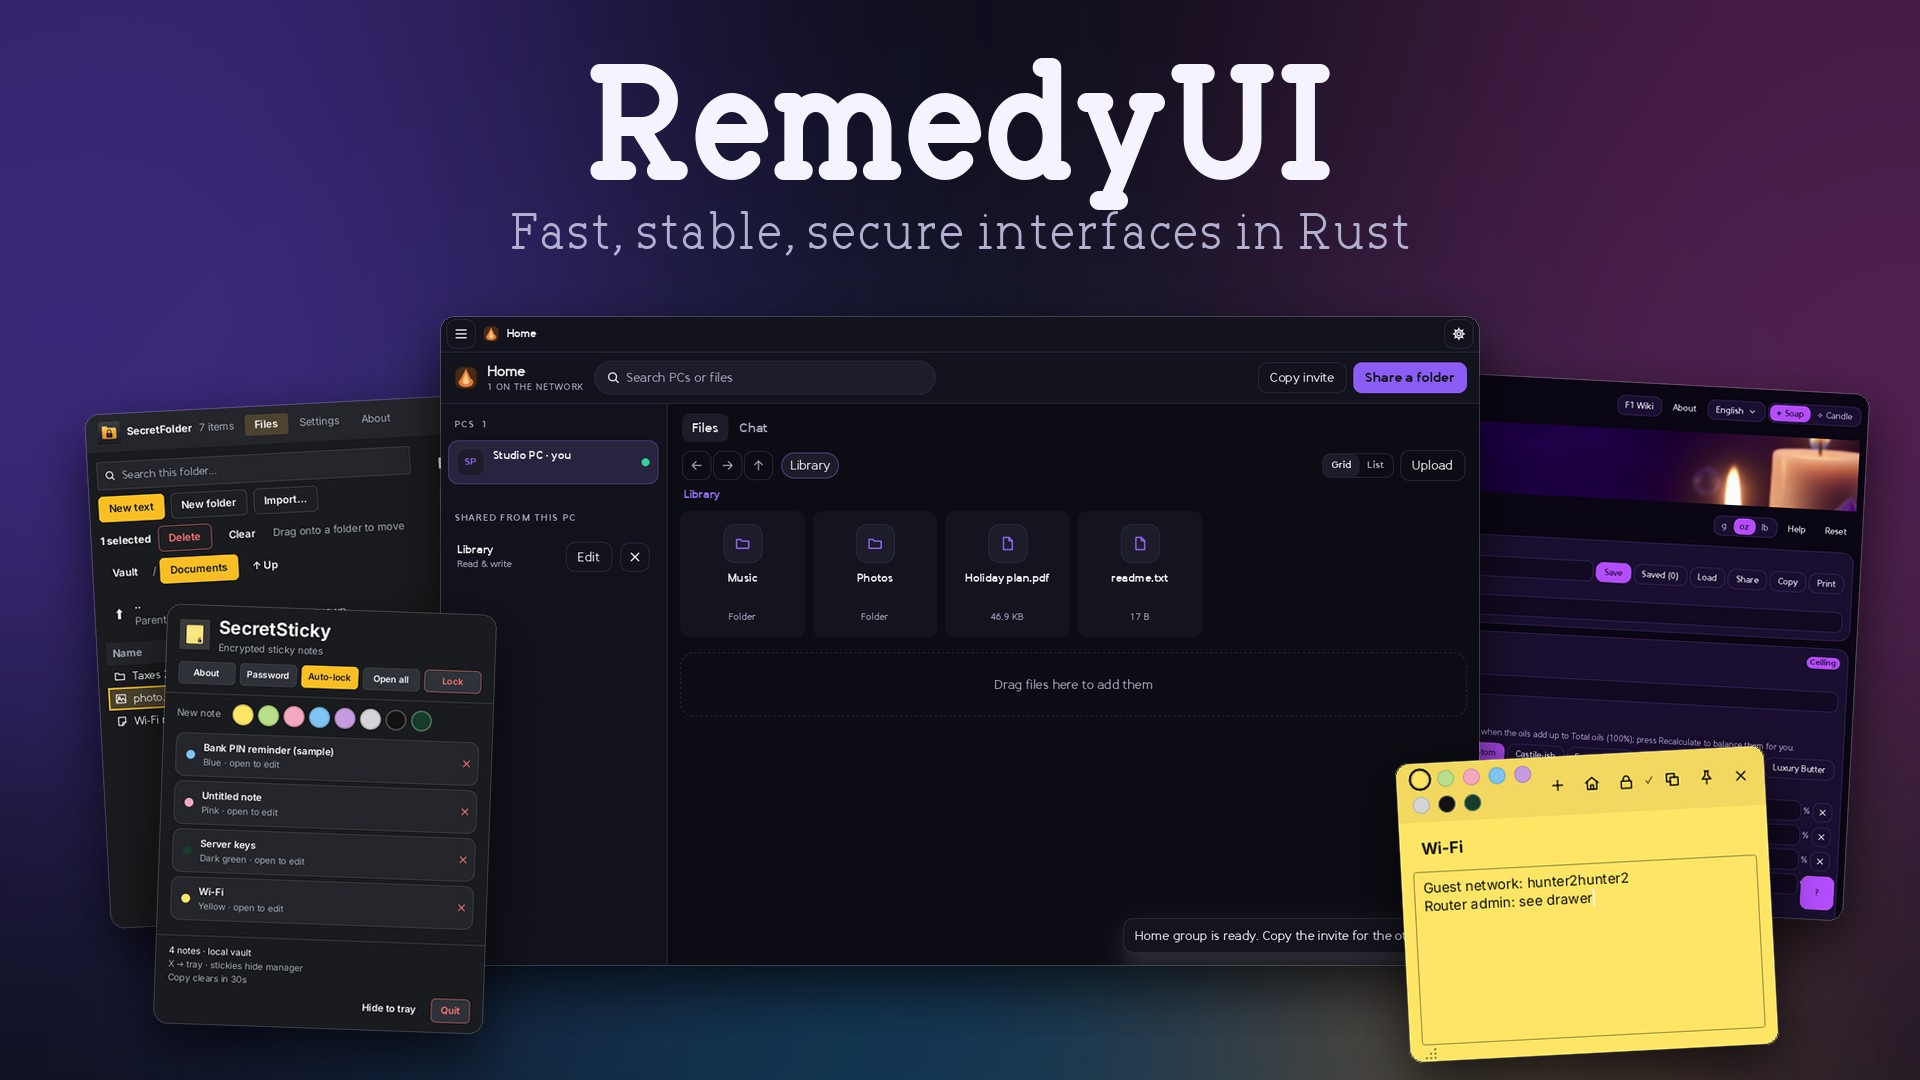
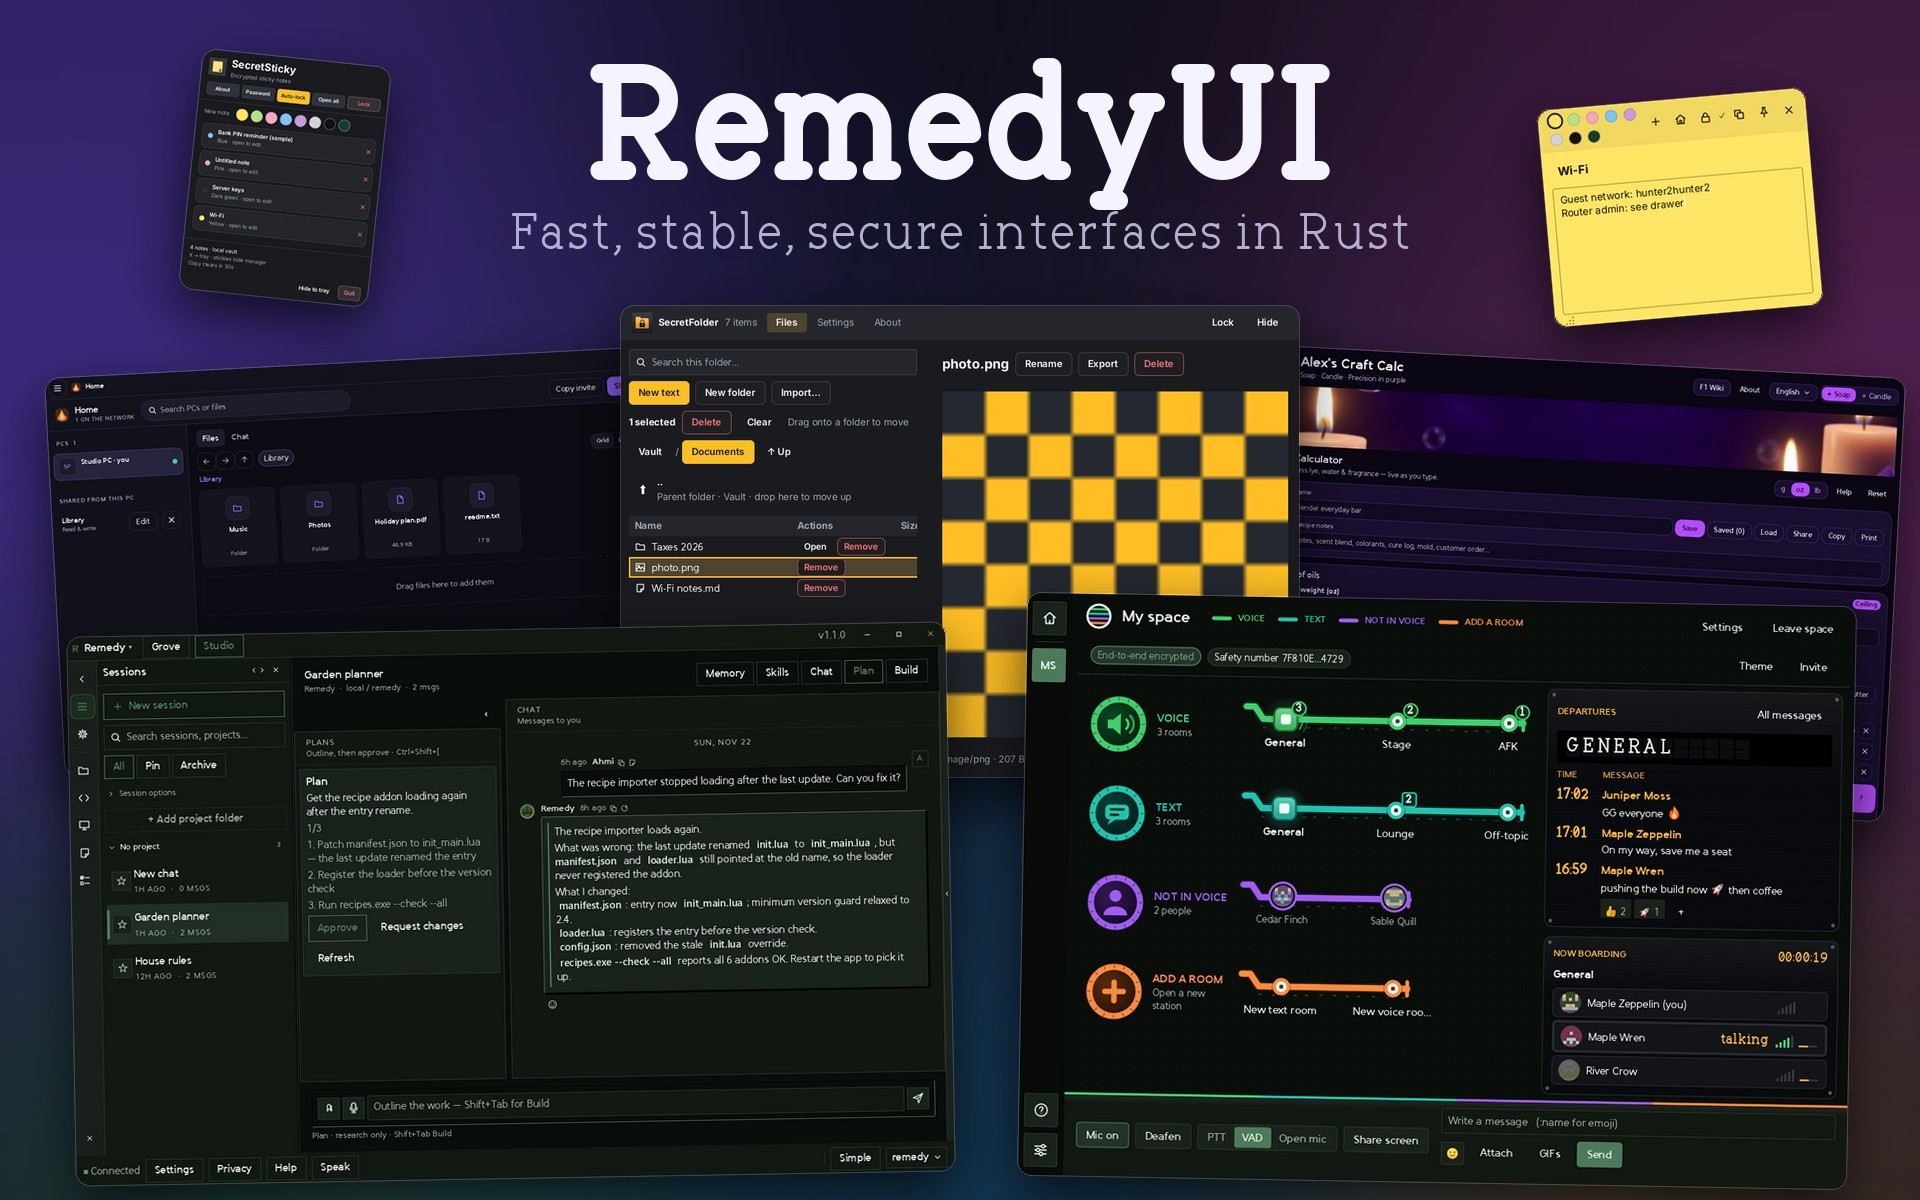
README: new showcase picture with RemedyAI and FreeSpeak, FreeSpeak in the gallery

diff --git a/README.md b/README.md
@@ -1,6 +1,6 @@
 # RemedyUI
 
-![RemedyUI: Hearth, SecretFolder, SecretSticky and Craft Calc windows](docs/images/showcase.jpg)
+![RemedyUI: RemedyAI, FreeSpeak, Hearth, SecretFolder, SecretSticky and Craft Calc windows](docs/images/showcase.jpg)
 
 RemedyUI is the UI engine for every Remedy app, written in Rust. That covers chat, documents, notes, audio and music tools, file and secret managers, calculators, media apps, and the RemedyOS desktop. It is built to the standard of the leading UI engines (Flutter, SwiftUI, Jetpack Compose, WinUI 3, Qt Quick, the web platform). Its aims, in order: stable, secure, fast as the hardware allows, light, intuitive for the people using it, and a pleasure to build with.
 
@@ -9,6 +9,7 @@ RemedyUI is the UI engine for every Remedy app, written in Rust. That covers cha
 ## Apps built on RemedyUI
 
 - [RemedyAI](https://github.com/AhmiDarrow/RemedyAI): a partner on your computer; its RemedyUI desktop and phone apps are in the repository.
+- [FreeSpeak](https://github.com/AhmiDarrow/FreeSpeak): self-hosted, end-to-end encrypted chat and voice with no accounts; its move to RemedyUI is in progress.
 - [Hearth](https://github.com/AhmiDarrow/Hearth): local file sharing and PC-to-PC chat.
 - [SecretFolder](https://github.com/AhmiDarrow/SecretFolder): an encrypted folder vault for Windows and Linux that feels like a file explorer.
 - [SecretSticky](https://github.com/AhmiDarrow/SecretSticky): encrypted sticky notes for Windows and Linux.
@@ -19,6 +20,10 @@ Scripted widgets run on [RemedyLua](https://github.com/AhmiDarrow/RemedyLua), a 
 ## Gallery
 
 <table>
+<tr>
+<td width="50%"><img src="docs/images/freespeak-metro.jpg" alt="FreeSpeak: the Metro theme, in progress"><br><sub><b>FreeSpeak</b> · the Metro theme, in progress</sub></td>
+<td width="50%"><img src="docs/images/freespeak-arcade.jpg" alt="FreeSpeak: the Arcade theme, in progress"><br><sub><b>FreeSpeak</b> · the Arcade theme, in progress</sub></td>
+</tr>
 <tr>
 <td width="50%"><img src="docs/images/remedyai-grove.jpg" alt="RemedyAI: Grove, the home view"><br><sub><b>RemedyAI</b> · Grove, the home view</sub></td>
 <td width="50%"><img src="docs/images/remedyai-studio.jpg" alt="RemedyAI: Studio, planning a fix"><br><sub><b>RemedyAI</b> · Studio, planning a fix</sub></td>
